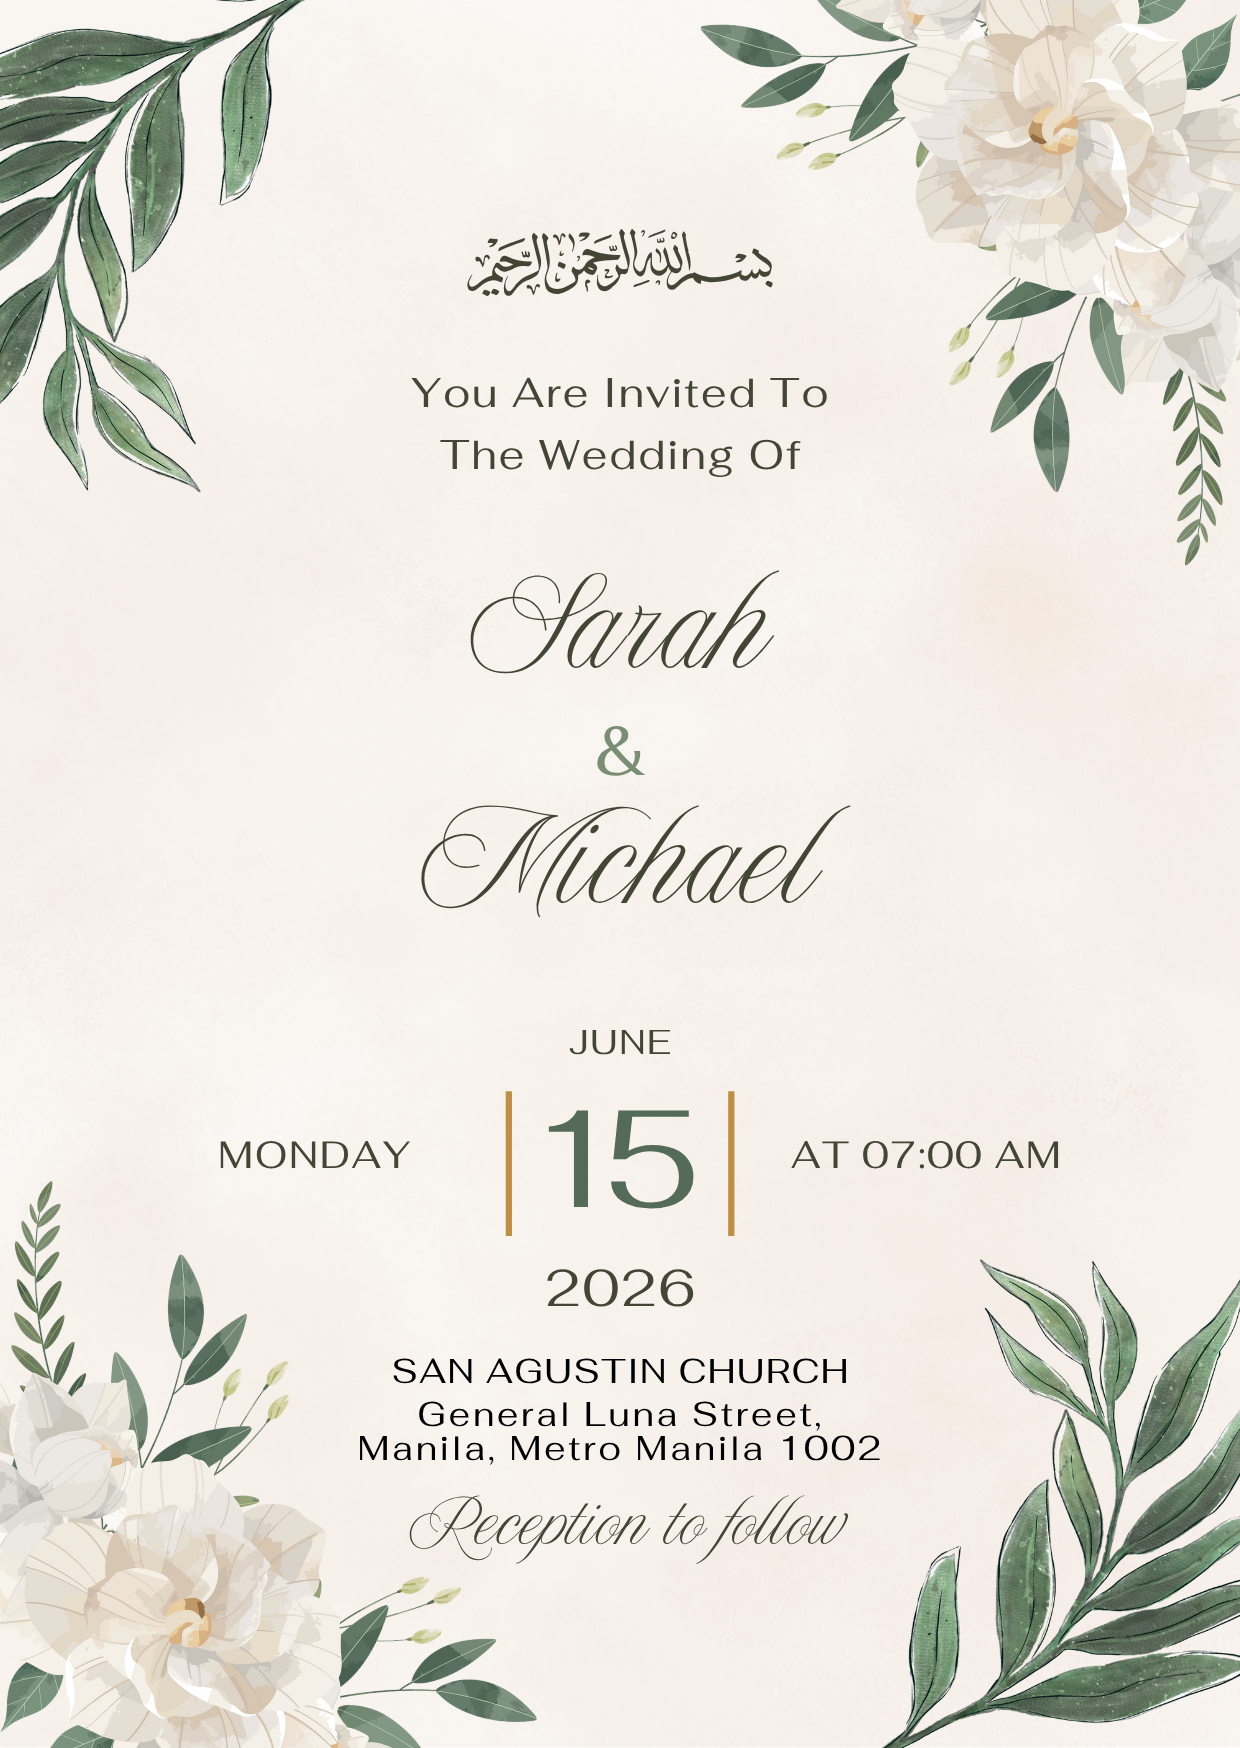
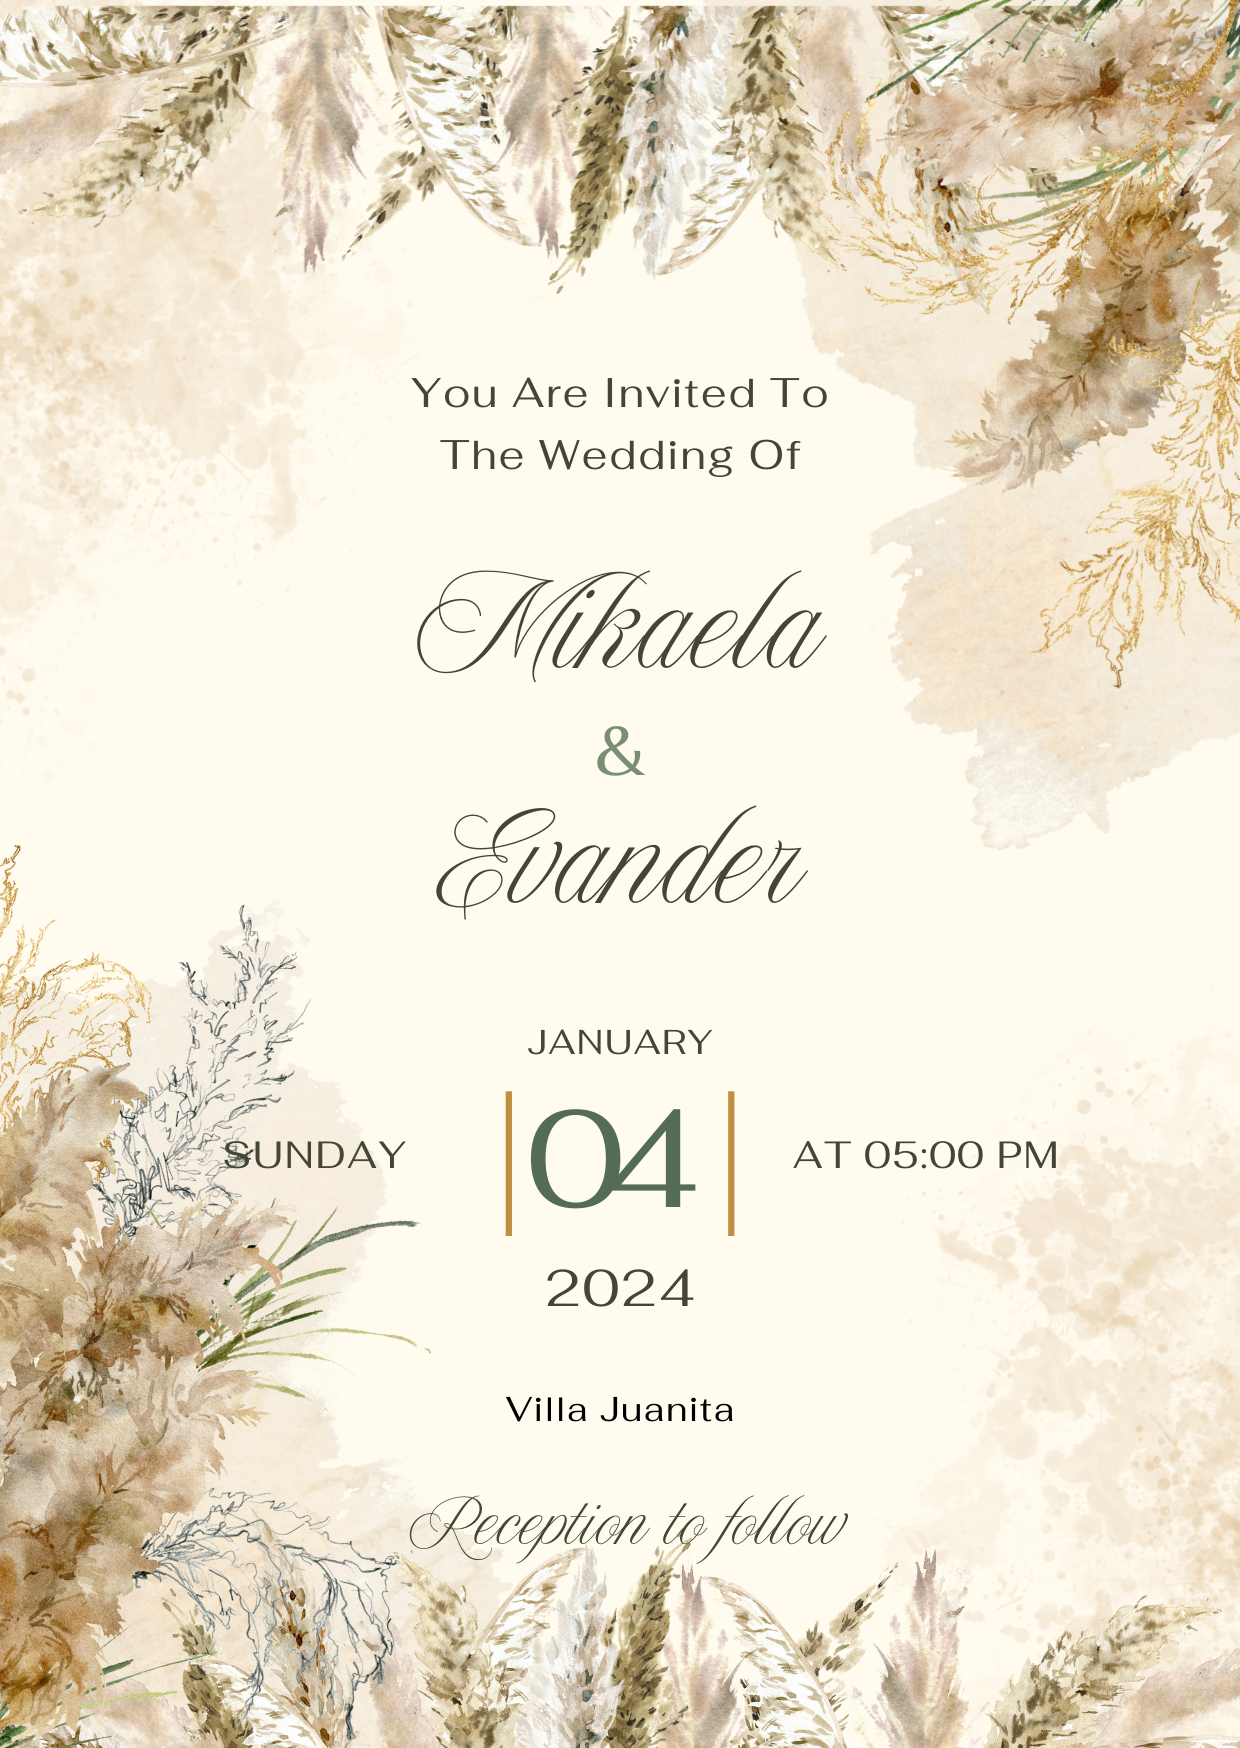
added entopurage photos

diff --git a/src/components/EntourageModal.jsx b/src/components/EntourageModal.jsx
@@ -8,14 +8,12 @@ const EntourageModal = ({ isOpen, onClose }) => {
   
   if (!isOpen) return null
 
-  const entourageImages = [
-    "/assets/images/entourage/1.png",
-    "/assets/images/entourage/2.png", 
-    "/assets/images/entourage/3.png",
-    "/assets/images/entourage/4.png",
-    "/assets/images/entourage/5.png",
-    "/assets/images/entourage/6.png"
-  ]
+  // Dynamically generate entourage images array
+  // Update this number based on how many entourage photos exist
+  const ENTOURAGE_COUNT = 3
+  const entourageImages = Array.from({ length: ENTOURAGE_COUNT }, (_, i) => 
+    `/assets/images/entourage/${i + 1}.png`
+  )
 
   const openImageViewer = (index) => {
     setSelectedImageIndex(index)
@@ -89,9 +87,9 @@ const EntourageModal = ({ isOpen, onClose }) => {
             {/* Previous Button */}
             <button
               onClick={prevImage}
-              className="absolute left-4 top-1/2 -translate-y-1/2 bg-white/20 hover:bg-white/30 text-white p-2 rounded-full transition-colors duration-200"
+              className="absolute left-4 top-1/2 -translate-y-1/2 bg-white/20 hover:bg-white/30 p-2 rounded-full transition-colors duration-200"
             >
-              <ChevronLeft className="w-6 h-6" />
+              <ChevronLeft className="w-6 h-6 text-[#5C4033]" />
             </button>
             
             {/* Image */}
@@ -104,9 +102,9 @@ const EntourageModal = ({ isOpen, onClose }) => {
             {/* Next Button */}
             <button
               onClick={nextImage}
-              className="absolute right-4 top-1/2 -translate-y-1/2 bg-white/20 hover:bg-white/30 text-white p-2 rounded-full transition-colors duration-200"
+              className="absolute right-4 top-1/2 -translate-y-1/2 bg-white/20 hover:bg-white/30 p-2 rounded-full transition-colors duration-200"
             >
-              <ChevronRight className="w-6 h-6" />
+              <ChevronRight className="w-6 h-6 text-[#5C4033]" />
             </button>
             
             {/* Close Button */}

diff --git a/src/App.jsx b/src/App.jsx
@@ -3,14 +3,12 @@ import './App.css'
 import WeddingInvitation from './components/WeddingInvitation'
 import RSVPModal from './components/RSVPModal'
 import DynamicTitle from './components/DynamicTitle'
-import Watermark from './components/Watermark'
 
 function App() {
   const [isRSVPModalOpen, setIsRSVPModalOpen] = useState(false)
 
   return (
     <div className="App min-h-screen wedding-gradient">
-      <Watermark />
       <DynamicTitle />
       <WeddingInvitation onOpenRSVP={() => setIsRSVPModalOpen(true)} />
       <RSVPModal isOpen={isRSVPModalOpen} onClose={() => setIsRSVPModalOpen(false)} />

diff --git a/src/components/RSVPModal.jsx b/src/components/RSVPModal.jsx
@@ -91,7 +91,7 @@ const RSVPModal = ({ isOpen, onClose }) => {
         {/* Google Forms iframe */}
         <div className="p-6">
           <iframe 
-            src="https://forms.gle/pvgVmDvZrvaHtGxz8" 
+            src="https://forms.gle/NKcLUkRM34mhv4BQ6" 
             width="100%" 
             height="600" 
             frameBorder="0" 
